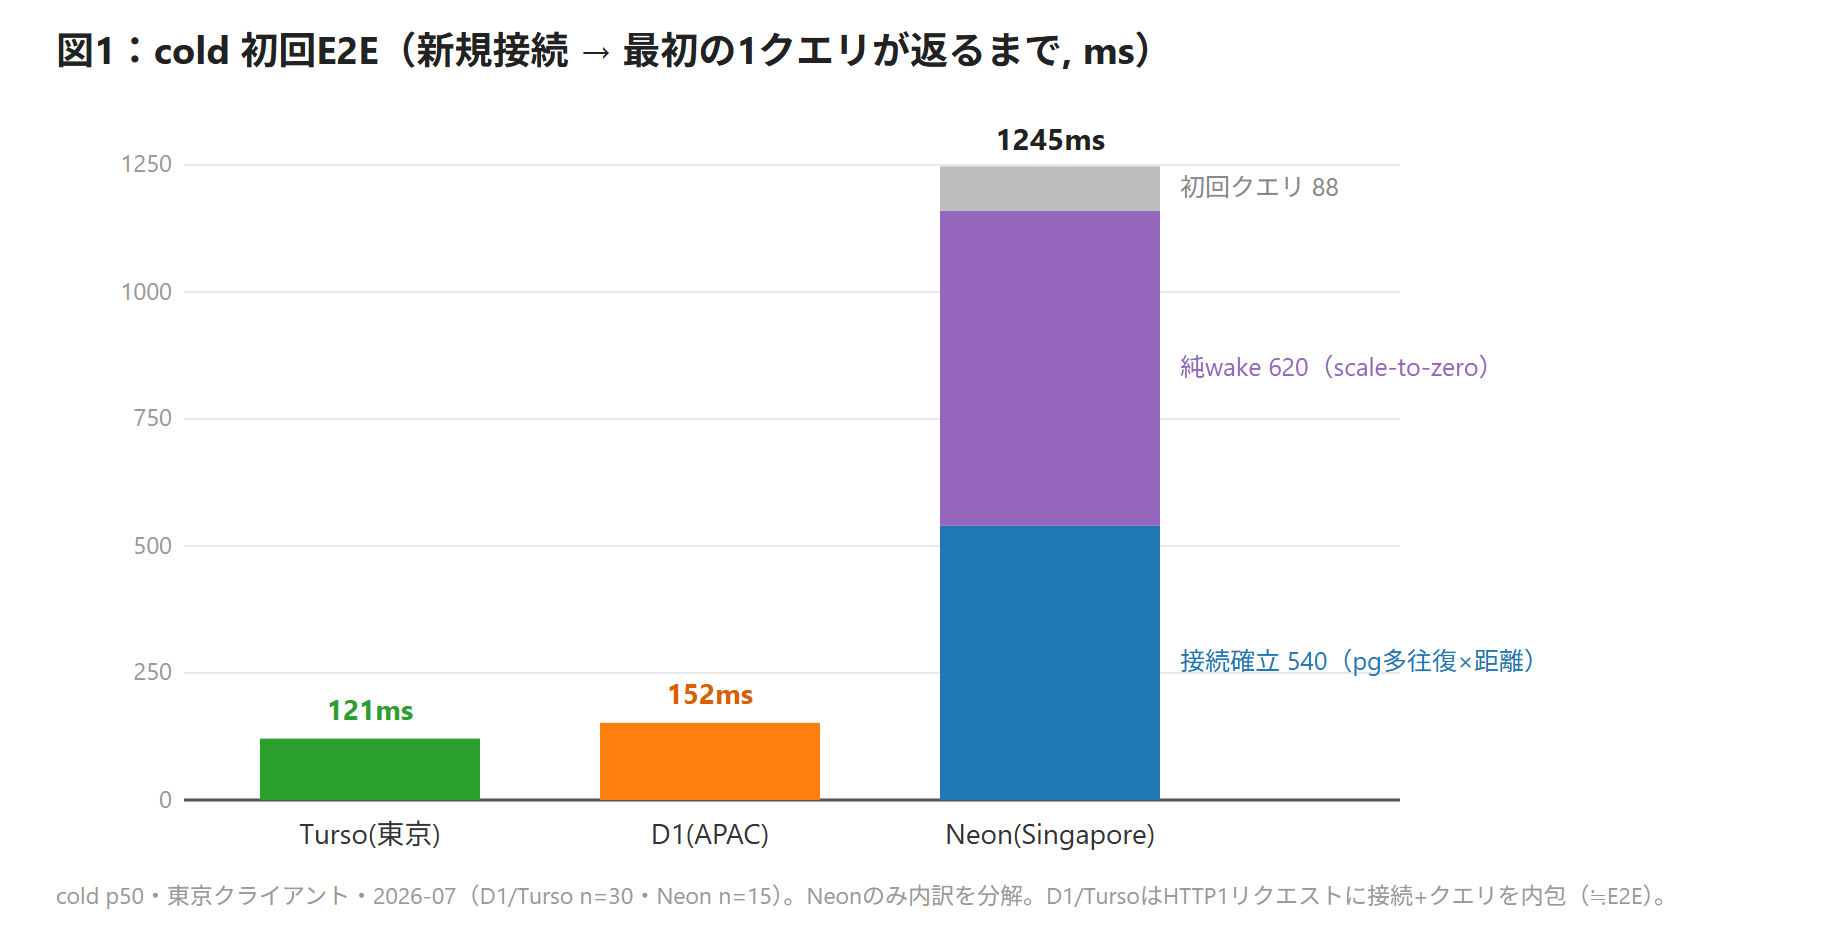
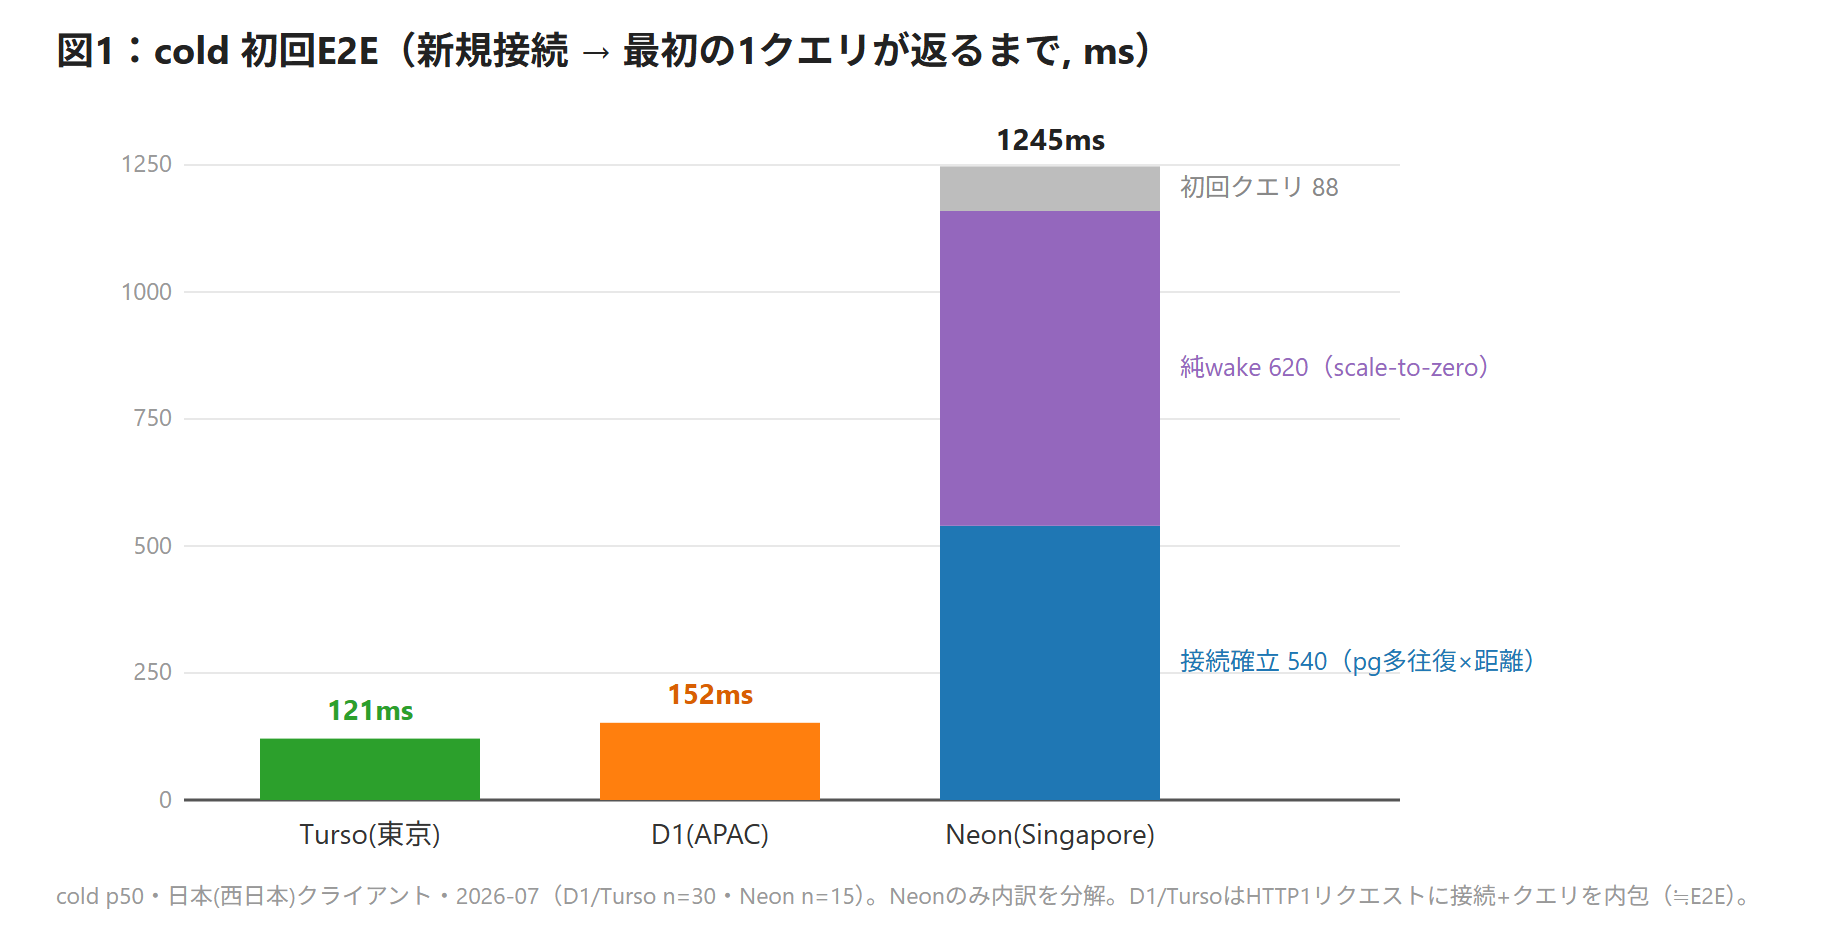
訂正: クライアント所在地を東京→日本(西日本)に修正
.env の REGION=tokyo 既定値からクライアント所在を「東京」と
誤記していた（実所在は西日本・本人確認済）。README注記＋
図1/図2キャプションを訂正。測定データ自体は不変。

Changed region(s): [[0.0929, 0.9255, 0.9293, 0.9872]]

diff --git a/README.md b/README.md
@@ -1,6 +1,8 @@
 # serverless-db-bench
 
-無料枠サーバレスDB（Supabase / Neon / Turso / Cloudflare D1）の**コールドスタート × クォータ壁 × 多拠点レイテンシ**を同一条件で実測するハーネス。東京から測った結果と考察は解説記事（Qiita）にまとめています。
+無料枠サーバレスDB（Supabase / Neon / Turso / Cloudflare D1）の**コールドスタート × クォータ壁 × 多拠点レイテンシ**を同一条件で実測するハーネス。日本（西日本）から測った結果と考察は解説記事（Qiita）にまとめています。
+
+> ⚠️ `results/` のファイル名・regionタグの "tokyo" は初期設定タグの名残で、**クライアントの実所在は日本・西日本**です（ターゲット側のTurso東京リージョンとは別物）。測定条件の正は記事本文を参照。
 
 > **役割分担**: このリポはコードとRunbook。**DB無料アカウント・多拠点VM・実DBへの計測はあなたが実行**（資格情報と課金判断が要るため）。creds を `.env` に差せば回る。
 